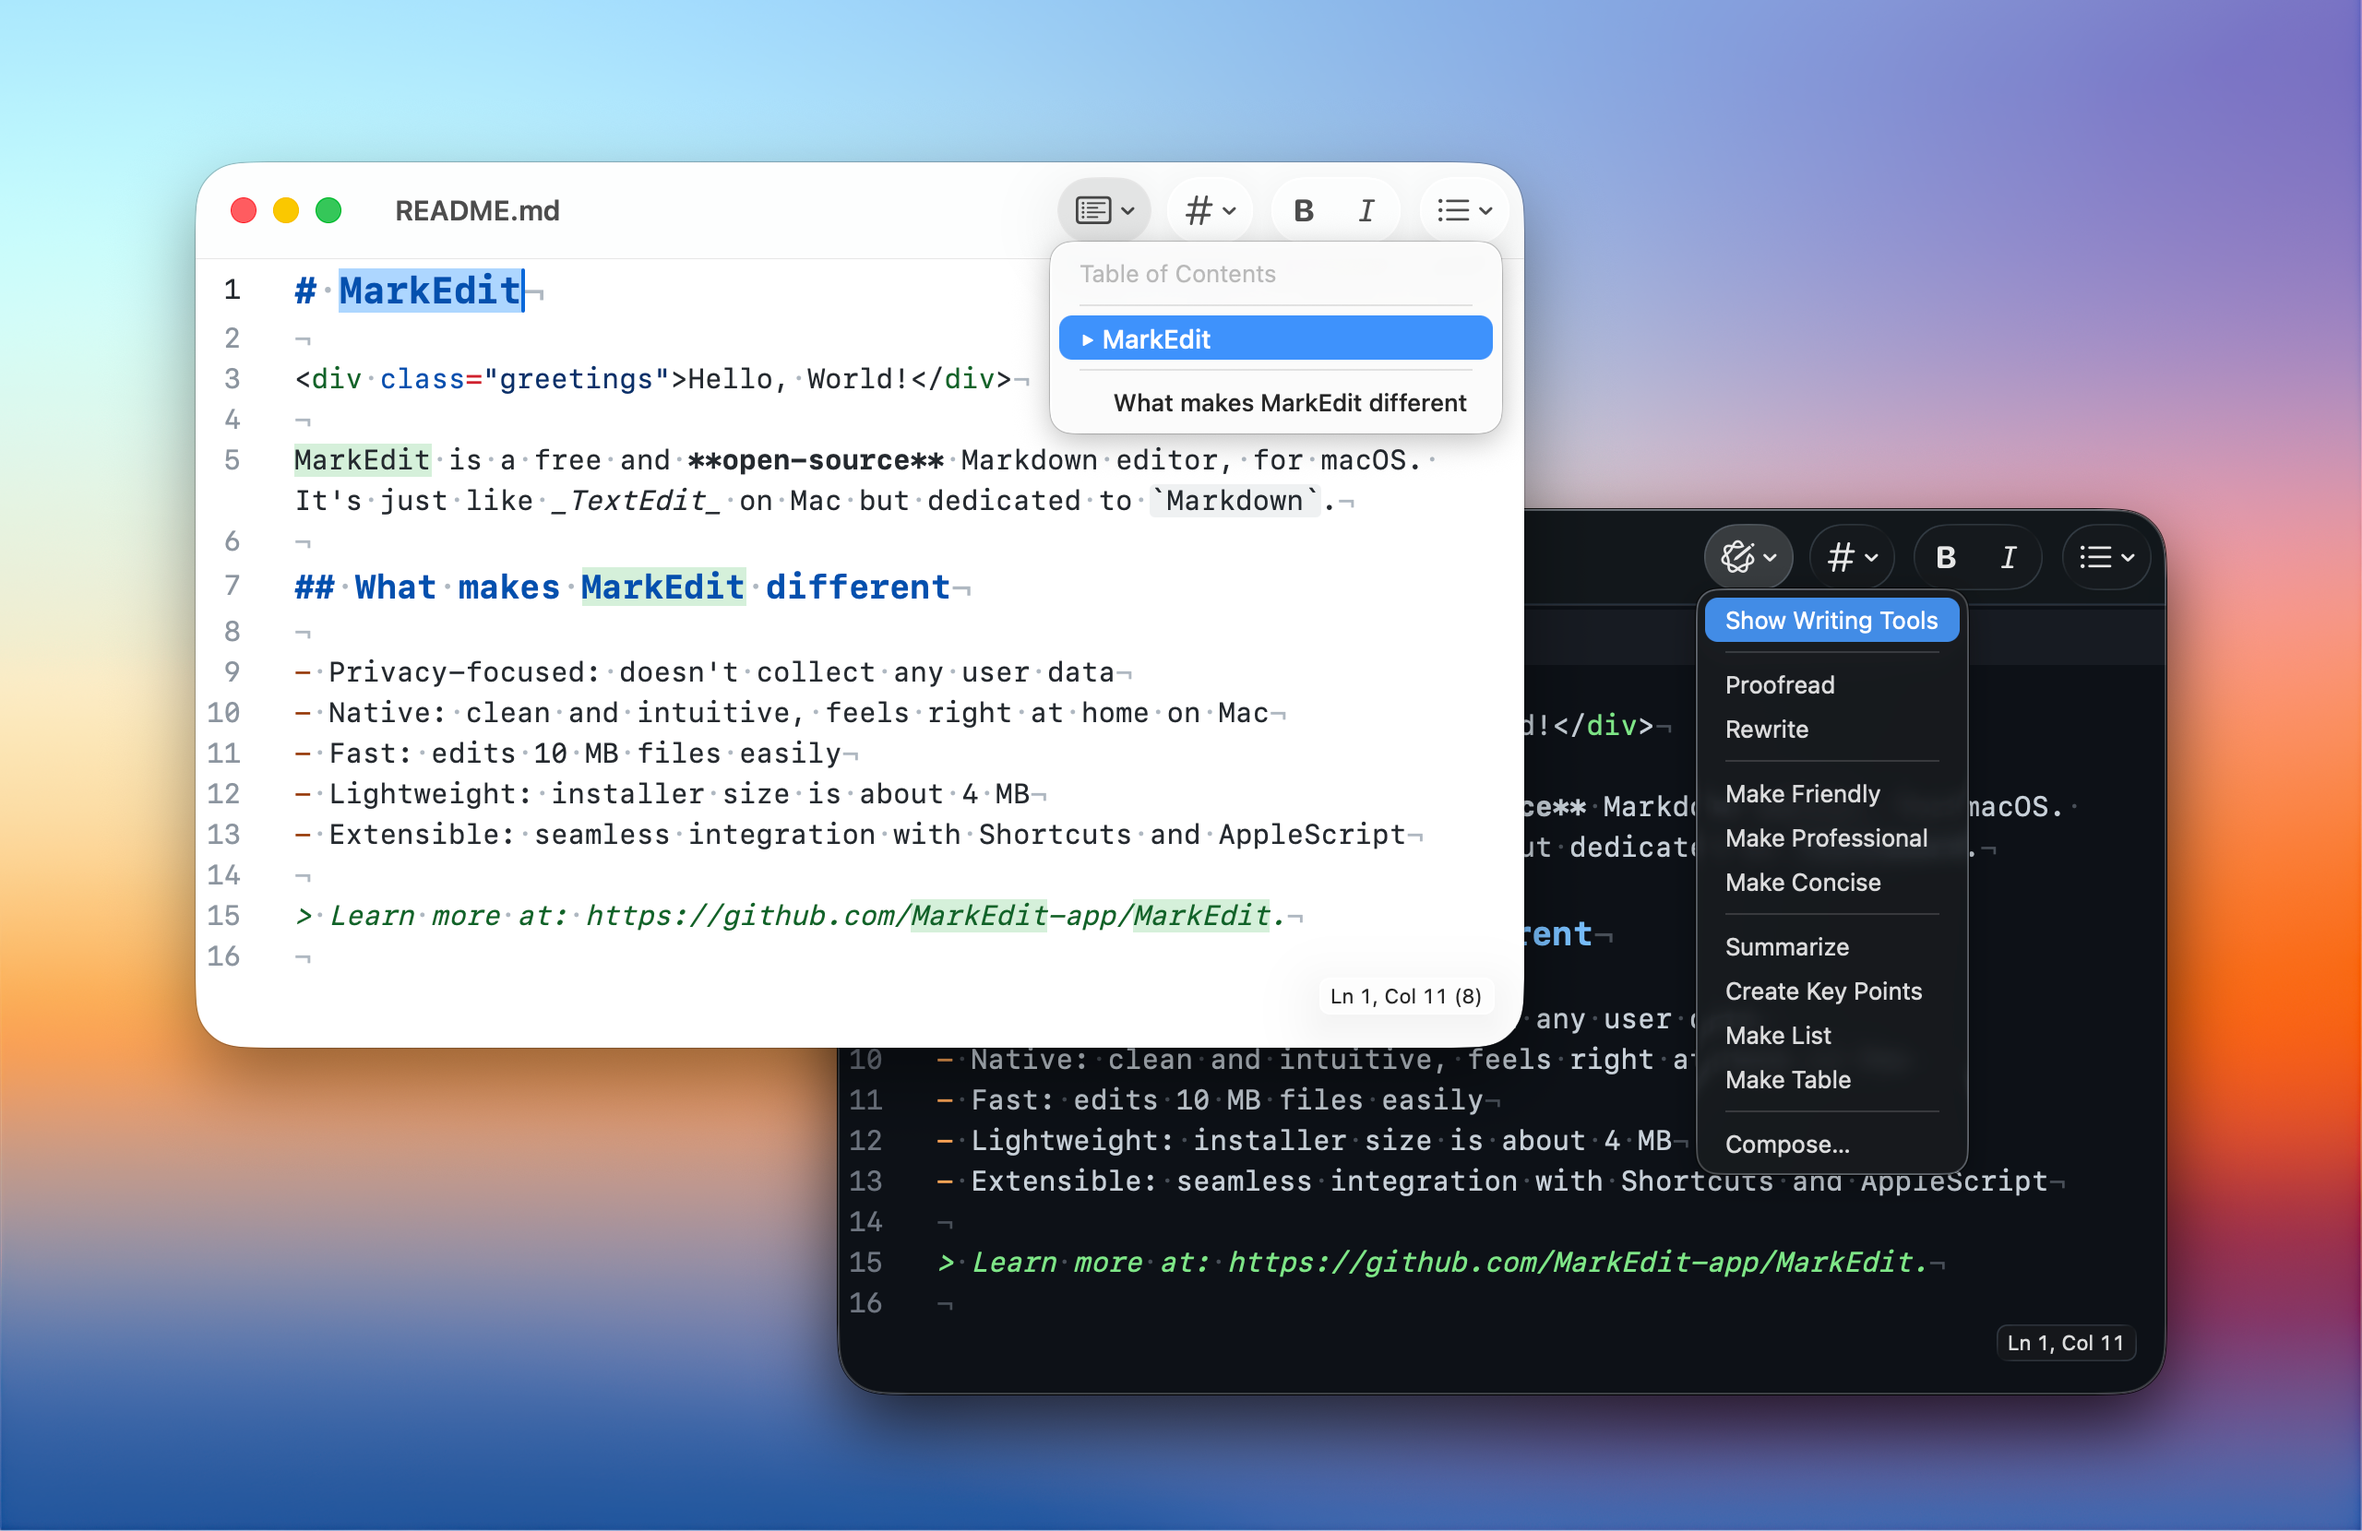
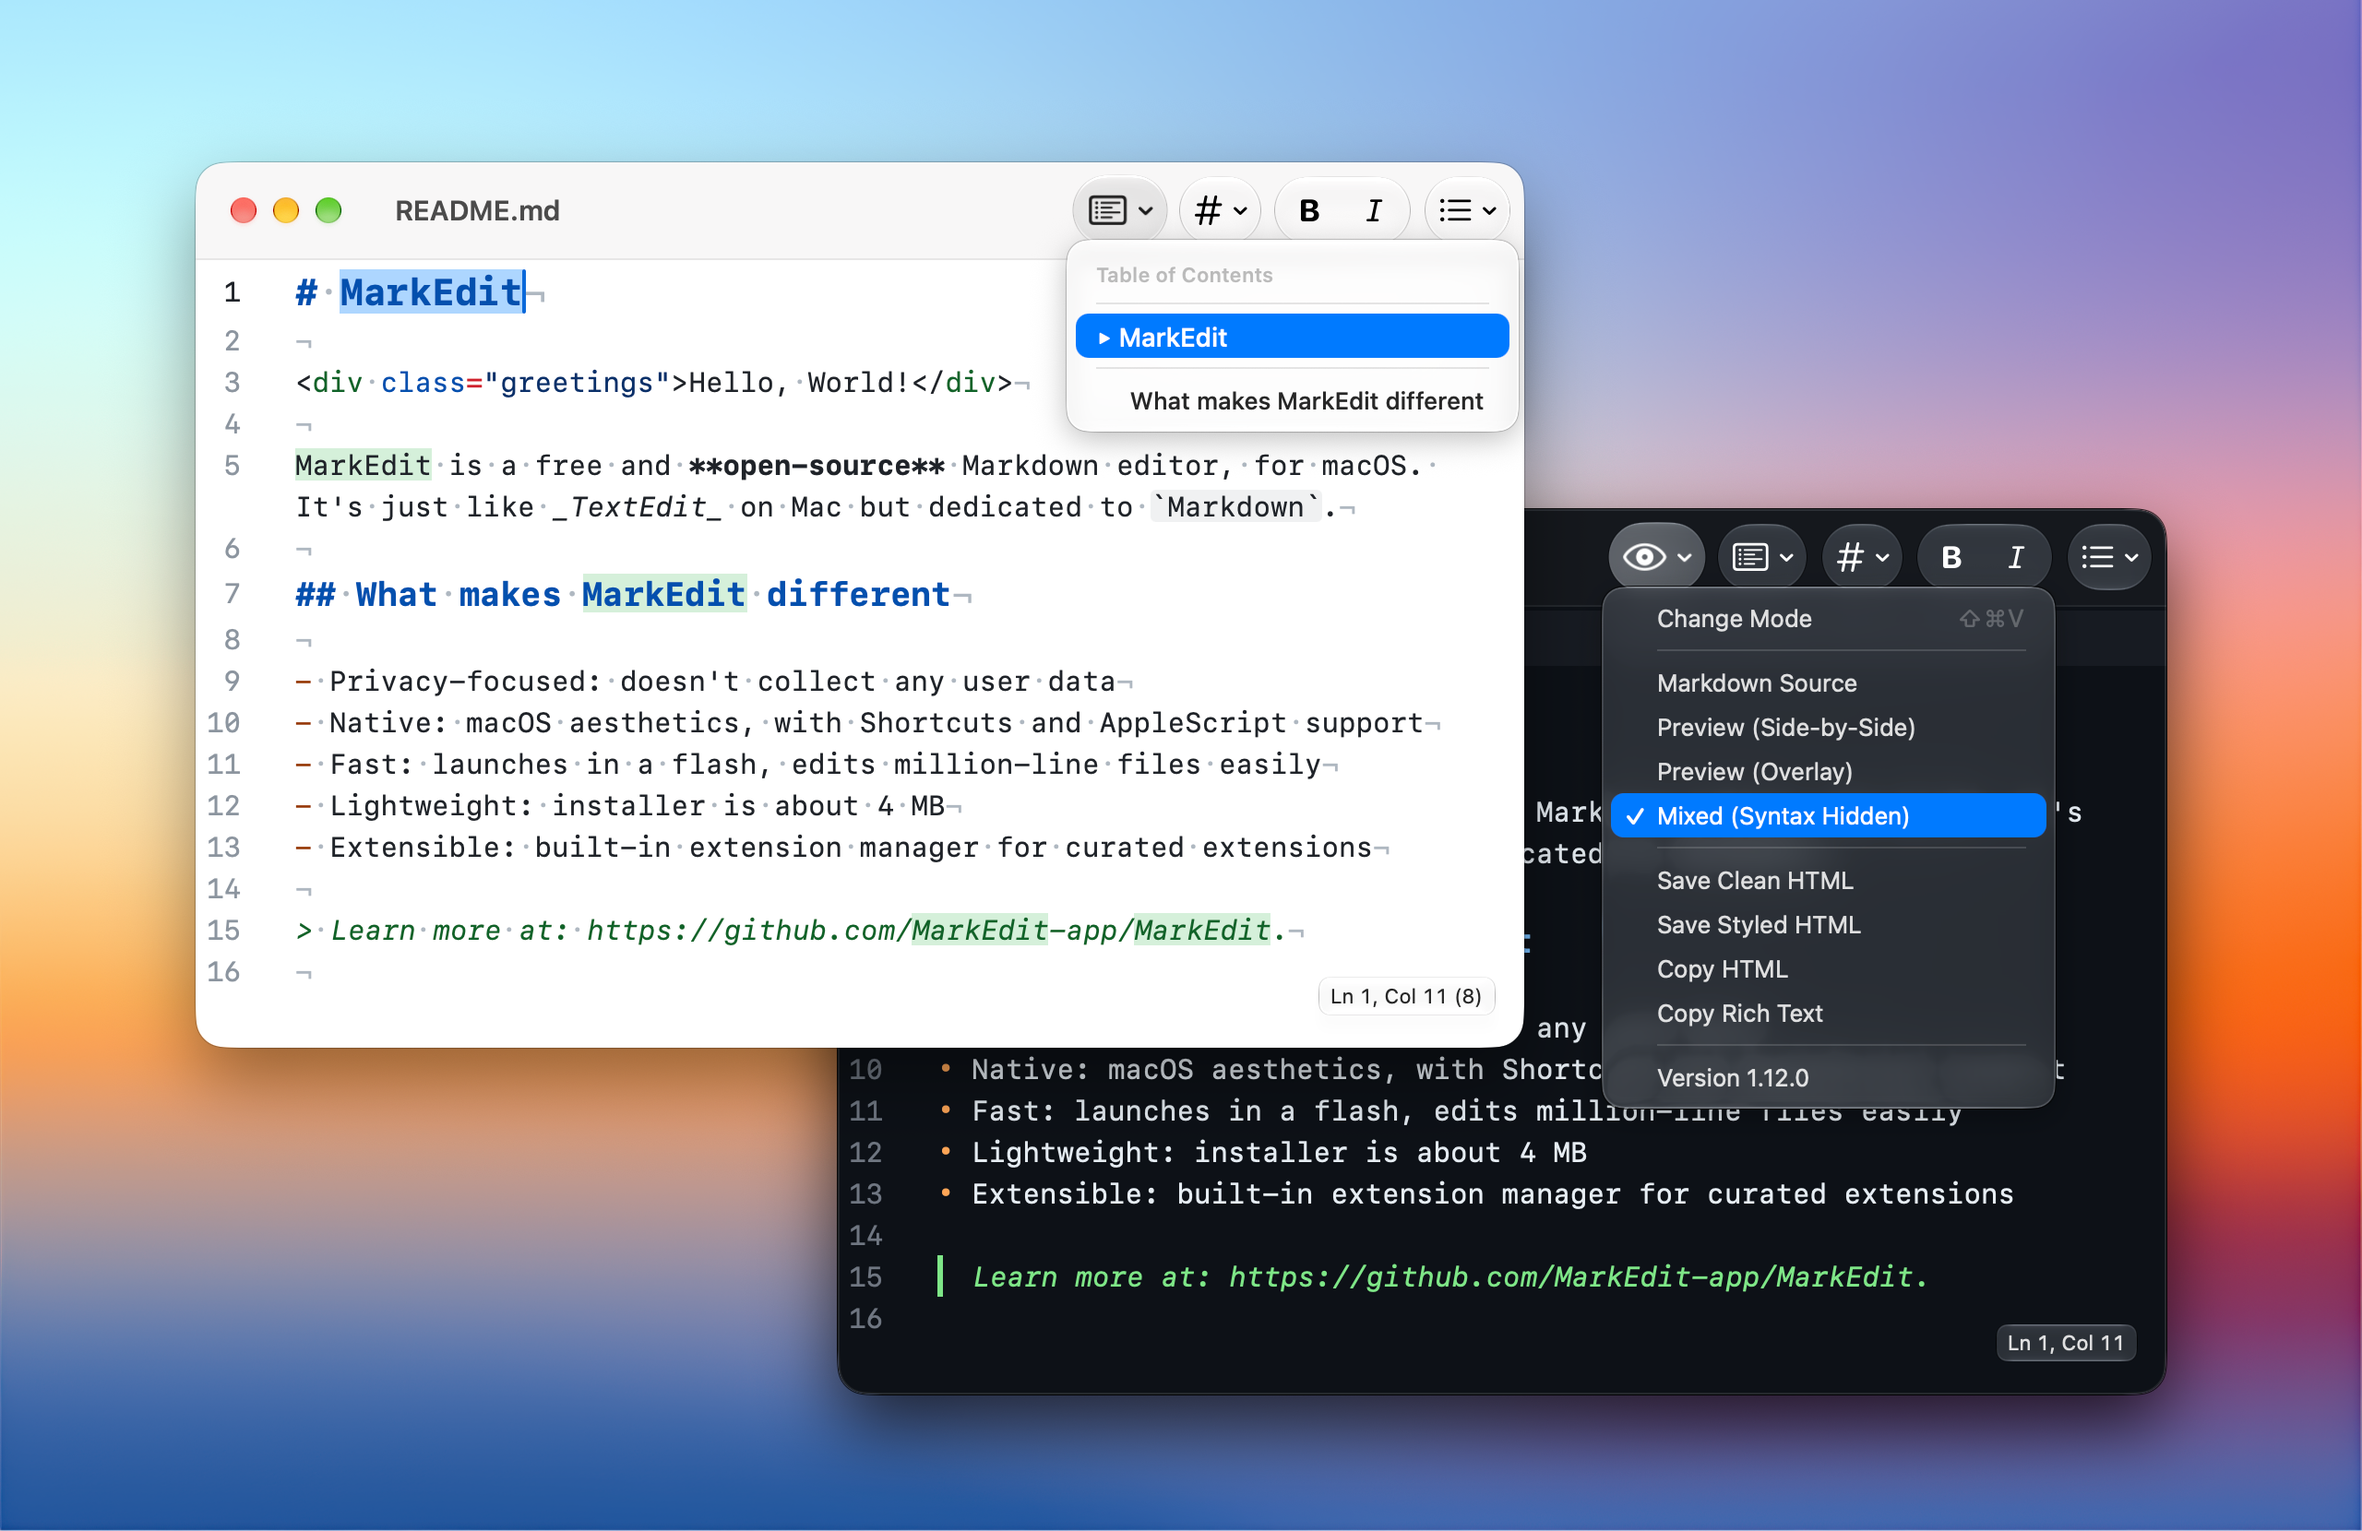
Refresh homepage screenshots and product highlights
Align native integration, performance, and extension manager copy with the MarkEdit README and refresh original PNG screenshots and image descriptions.

diff --git a/index.html b/index.html
@@ -11,7 +11,7 @@
   <meta property="og:description" content="Less app. More writing. A free, open-source Markdown editor that feels at home on your Mac.">
   <meta property="og:url" content="https://markedit-app.github.io/">
   <meta property="og:image" content="https://markedit-app.github.io/assets/editor.png">
-  <meta property="og:image:alt" content="MarkEdit's native Markdown editor in light and dark appearances.">
+  <meta property="og:image:alt" content="MarkEdit's Markdown editor in light mode and syntax-hidden Mixed mode, with the View Modes menu open.">
   <meta name="twitter:card" content="summary_large_image">
   <link rel="canonical" href="https://markedit-app.github.io/">
   <link rel="icon" type="image/png" sizes="64x64" href="assets/favicon.png">
@@ -58,7 +58,7 @@
 
       <figure class="hero-preview">
         <a class="screenshot-link" href="assets/editor.png" aria-label="View a full-size screenshot of the MarkEdit editor">
-          <img src="assets/editor.png" width="2560" height="1660" fetchpriority="high" alt="MarkEdit editing a Markdown document, with a table of contents in light mode and native Writing Tools in dark mode.">
+          <img src="assets/editor.png" width="2560" height="1660" fetchpriority="high" alt="MarkEdit editing Markdown with a table of contents in light mode, alongside syntax-hidden Mixed mode and the View Modes menu in dark mode.">
         </a>
         <figcaption><span>A familiar Mac app. A fresh page.</span><a href="assets/editor.png">Take a closer look <span aria-hidden="true">&#8599;</span></a></figcaption>
       </figure>
@@ -80,12 +80,12 @@
         <article>
           <span class="feature-number" aria-hidden="true">01 / NATIVE</span>
           <h3>A good Mac citizen.</h3>
-          <p>Familiar windows, keyboard shortcuts, and the little things you expect. From force-touch word lookup to macOS Writing Tools, your editor belongs here.</p>
+          <p>Native macOS controls, Shortcuts and AppleScript support, and the little things you expect. From force-touch word lookup to inline predictions and Writing Tools, your editor belongs here.</p>
         </article>
         <article>
           <span class="feature-number" aria-hidden="true">02 / CAPABLE</span>
           <h3>Lightweight. Not light-duty.</h3>
-          <p>Multi-caret editing, code folding, and large files handled with ease. A small app with a capable editing engine, built on CodeMirror 6.</p>
+          <p>Launches in a flash and edits million-line files with ease. Multi-caret editing and code folding come courtesy of CodeMirror 6, all in an app with an installer of about 4 MB.</p>
         </article>
         <article>
           <span class="feature-number" aria-hidden="true">03 / OPEN</span>
@@ -115,13 +115,13 @@
     <section class="wrap split-section extensions-section" aria-labelledby="extensions-heading">
       <figure class="extension-preview">
         <a class="screenshot-link" href="assets/extensions.png" aria-label="View a full-size screenshot of the extension manager">
-          <img src="assets/extensions.png" width="1784" height="1384" loading="lazy" decoding="async" alt="MarkEdit's extension manager with Vim Keybindings, Wikilinks, and community themes ready to install.">
+          <img src="assets/extensions.png" width="1784" height="1384" loading="lazy" decoding="async" alt="MarkEdit's built-in extension manager showing Markdown View Modes, Interactive Tables, Vim Keybindings, and community themes.">
         </a>
       </figure>
       <div class="section-copy">
         <p class="eyebrow">Small at heart. Room to grow.</p>
         <h2 id="extensions-heading">A little more,<br><em>when you want it.</em></h2>
-        <p>Add View Modes for previews and syntax-hidden editing, Vim keybindings, or a favorite theme. Discover extensions in the app, and make MarkEdit fit the way you work.</p>
+        <p>Discover curated extensions in the built-in extension manager. Preview Markdown, hide syntax, customize themes, write with AI, or edit tables visually. Choose the extras that make MarkEdit fit the way you work.</p>
         <a class="text-link" href="/extensions/">Explore extensions <span aria-hidden="true">&#8594;</span></a>
         <ul class="extension-tags" aria-label="Featured extensions">
           <li><a href="/extensions/#markedit-preview">View Modes</a></li>
